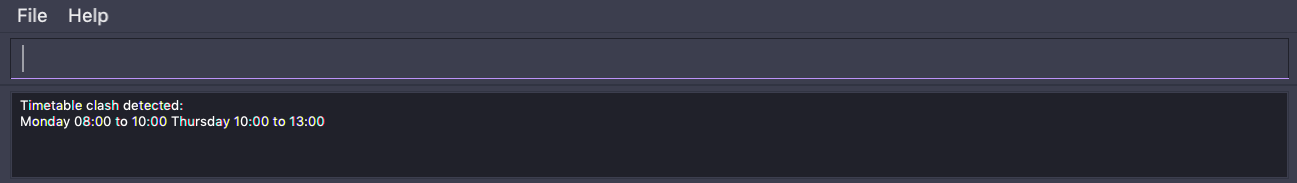
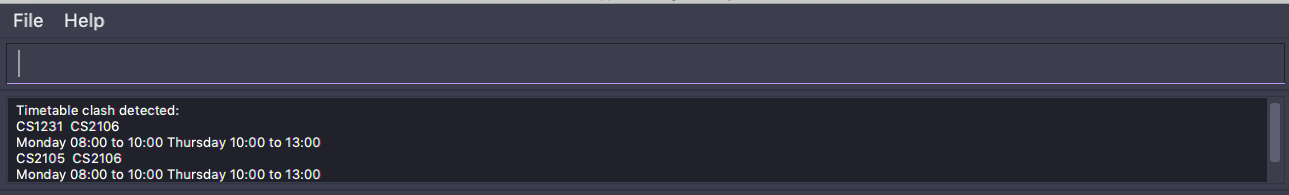
Rebuild pages at 09cd45e6c5a8686f9f0436e50c56296f8718642d

diff --git a/UserGuide.html b/UserGuide.html
@@ -392,6 +392,21 @@ necessary information. Wider range of searching will be implemented in v2.0.
 <img src="images/FindDemoSingleKeyword.png" alt="FindDemoSingleKeyword" width="790">
 </div>
 </div>
+<div class="ulist">
+<ul>
+<li>
+<p><code>find a/add drop</code></p>
+</li>
+</ul>
+</div>
+<div class="paragraph">
+<p>Sample Output:</p>
+</div>
+<div class="imageblock">
+<div class="content">
+<img src="images/FindDemoMultipleKeywords.png" alt="FindDemoMultipleKeywords" width="790">
+</div>
+</div>
 </div>
 <div class="sect2">
 <h3 id="show-clashes-code-clash-code"><a class="link" href="#show-clashes-code-clash-code">3.5. Show clashes: <code>clash</code></a></h3>
@@ -497,7 +512,7 @@ pre-allocated module due to timetable clash.</p>
 <div class="ulist">
 <ul>
 <li>
-<p><code>clash m/2 m/4</code></p>
+<p><code>clash m/1 m/2</code></p>
 </li>
 </ul>
 </div>
@@ -506,7 +521,7 @@ pre-allocated module due to timetable clash.</p>
 </div>
 <div class="imageblock">
 <div class="content">
-<img src="images/AppealClashDetected.png" alt="AppealClashDetected" width="790">
+<img src="images/ModuleClashDetected.png" alt="ModuleClashDetected" width="790">
 </div>
 </div>
 </div>
@@ -1042,4 +1057,4 @@ To add remarks to a student’s particulars page</p>
 </ul>
 </div>
 </div>
-</div></div><div id="footer"><div class="container"><div id="footer-text">Last updated 2019-10-31 14:57:04 UTC</div></div></div></body></html>
+</div></div><div id="footer"><div class="container"><div id="footer-text">Last updated 2019-10-31 15:22:36 UTC</div></div></div></body></html>

diff --git a/tutorials/RemovingFields.html b/tutorials/RemovingFields.html
@@ -175,4 +175,4 @@ While keeping the <code>address</code> field in the json files does not cause th
 <p>You can go through each individual <code>json</code> file and manually remove the <code>address</code> field.</p>
 </div>
 </div>
-</div></div><div id="footer"><div class="container"><div id="footer-text">Last updated 2019-10-31 14:57:04 UTC</div></div></div></body></html>
+</div></div><div id="footer"><div class="container"><div id="footer-text">Last updated 2019-10-31 15:22:36 UTC</div></div></div></body></html>

diff --git a/tutorials/AddRemark.html b/tutorials/AddRemark.html
@@ -616,4 +616,4 @@ In this case, <code>CommandTestUtil#assertCommandSuccess</code> is the best fit 
 <p>This concludes the tutorial for adding a new <code>Command</code> to AddressBook.</p>
 </div>
 </div>
-</div></div><div id="footer"><div class="container"><div id="footer-text">Last updated 2019-10-31 14:57:04 UTC</div></div></div></body></html>
+</div></div><div id="footer"><div class="container"><div id="footer-text">Last updated 2019-10-31 15:22:36 UTC</div></div></div></body></html>

diff --git a/Testing.html b/Testing.html
@@ -90,4 +90,4 @@ e.g. <code>mams.logic.LogicManagerTest</code></p>
 <div class="title">Figure 1. <code>Accessibility</code> permission is granted to <code>IntelliJ IDEA</code></div>
 </div>
 </div>
-</div></div><div id="footer"><div class="container"><div id="footer-text">Last updated 2019-10-31 14:57:04 UTC</div></div></div></body></html>
+</div></div><div id="footer"><div class="container"><div id="footer-text">Last updated 2019-10-31 15:22:36 UTC</div></div></div></body></html>

diff --git a/ContactUs.html b/ContactUs.html
@@ -12,4 +12,4 @@
 <p><strong>PrevMods us</strong> : You can also reach us at <code>e0273854 [at] u.nus.edu</code></p>
 </li>
 </ul>
-</div></div><div id="footer"><div class="container"><div id="footer-text">Last updated 2019-10-31 14:57:04 UTC</div></div></div></body></html>
+</div></div><div id="footer"><div class="container"><div id="footer-text">Last updated 2019-10-31 15:22:36 UTC</div></div></div></body></html>

diff --git a/LearningOutcomes.html b/LearningOutcomes.html
@@ -474,4 +474,4 @@ of storages, but different number of storages (e.g. save to both a text file and
 </div>
 </div>
 </div>
-</div></div><div id="footer"><div class="container"><div id="footer-text">Last updated 2019-10-31 14:57:04 UTC</div></div></div></body></html>
+</div></div><div id="footer"><div class="container"><div id="footer-text">Last updated 2019-10-31 15:22:36 UTC</div></div></div></body></html>

diff --git a/SettingUp.html b/SettingUp.html
@@ -180,4 +180,4 @@ Having both Travis and AppVeyor ensures your App works on both Unix-based platfo
 </div>
 </div>
 </div>
-</div></div><div id="footer"><div class="container"><div id="footer-text">Last updated 2019-10-31 14:57:04 UTC</div></div></div></body></html>
+</div></div><div id="footer"><div class="container"><div id="footer-text">Last updated 2019-10-31 15:22:36 UTC</div></div></div></body></html>

diff --git a/UsingCoveralls.html b/UsingCoveralls.html
@@ -111,4 +111,4 @@ If you have not set up Travis CI, see <a href="UsingTravis.html">UsingTravis.ado
 </ol>
 </div>
 </div>
-</div></div><div id="footer"><div class="container"><div id="footer-text">Last updated 2019-10-31 14:57:04 UTC</div></div></div></body></html>
+</div></div><div id="footer"><div class="container"><div id="footer-text">Last updated 2019-10-31 15:22:36 UTC</div></div></div></body></html>

diff --git a/UsingGradle.html b/UsingGradle.html
@@ -228,4 +228,4 @@ See <code>build.gradle</code> &#8594; <code>allprojects</code> &#8594; <code>dep
 </ul>
 </div>
 </div>
-</div></div><div id="footer"><div class="container"><div id="footer-text">Last updated 2019-10-31 14:57:04 UTC</div></div></div></body></html>
+</div></div><div id="footer"><div class="container"><div id="footer-text">Last updated 2019-10-31 15:22:36 UTC</div></div></div></body></html>

diff --git a/UsingNetlify.html b/UsingNetlify.html
@@ -138,4 +138,4 @@ The publish directory is the directory in which the built HTML documentation res
 </ol>
 </div>
 </div>
-</div></div><div id="footer"><div class="container"><div id="footer-text">Last updated 2019-10-31 14:57:04 UTC</div></div></div></body></html>
+</div></div><div id="footer"><div class="container"><div id="footer-text">Last updated 2019-10-31 15:22:36 UTC</div></div></div></body></html>

diff --git a/Documentation.html b/Documentation.html
@@ -226,4 +226,4 @@ The SE-EDU team does not provide support for modified template files.</p>
 </table>
 </div>
 </div>
-</div></div><div id="footer"><div class="container"><div id="footer-text">Last updated 2019-10-31 14:57:04 UTC</div></div></div></body></html>
+</div></div><div id="footer"><div class="container"><div id="footer-text">Last updated 2019-10-31 15:22:36 UTC</div></div></div></body></html>

diff --git a/team/johndoe.html b/team/johndoe.html
@@ -167,4 +167,4 @@
 <p><em>{Optionally, you may include other projects in your portfolio.}</em></p>
 </div>
 </div>
-</div></div><div id="footer"><div class="container"><div id="footer-text">Last updated 2019-10-31 14:57:04 UTC</div></div></div></body></html>
+</div></div><div id="footer"><div class="container"><div id="footer-text">Last updated 2019-10-31 15:22:36 UTC</div></div></div></body></html>
